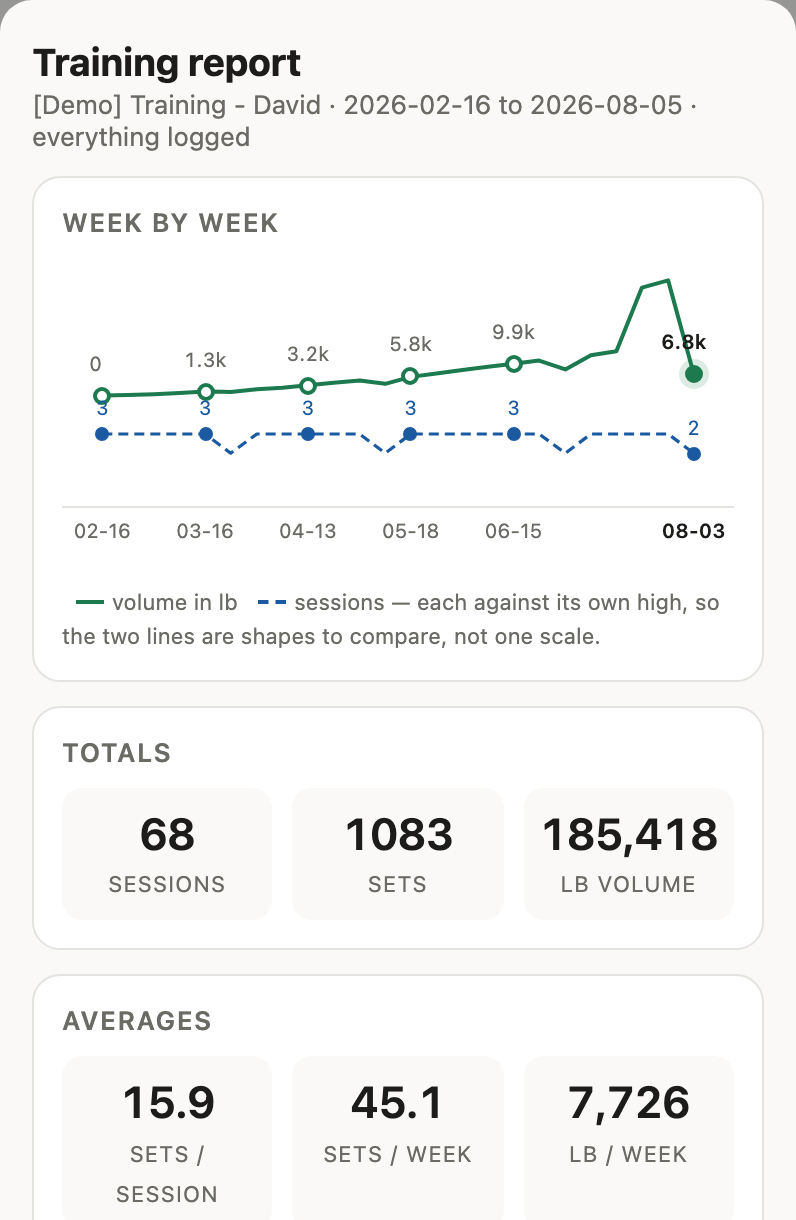
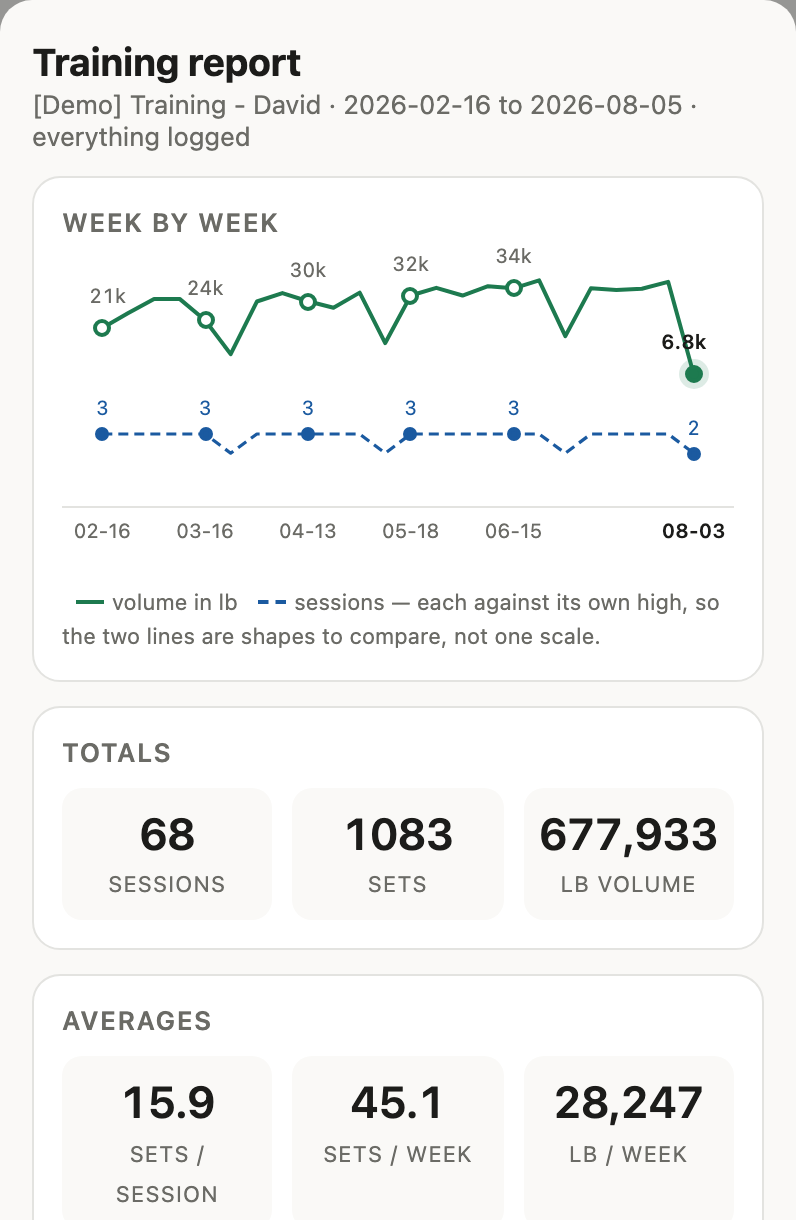
demo: history that looks like training, not like a first month
The seeder built each session through the app's own progression rule and let
it run for twenty-two weeks unattended. That rule adds two reps whenever a set
felt easy, which is right for a week at a time with someone overriding it, and
absurd over half a year: the demo ended up with 51-rep lateral raises and
36-rep split squats, all off a starting weight of zero, because templates ship
weights at 0.

It now does double progression — hold the weight, add reps across a block,
then take the weight up and reset the reps — with each lift's starting weight
picked so the last history session lands on the weight the showcase weeks
open with. Bench walks 8x70 to 8x95 and the showcase carries it to 8x105.
RPE climbs through each block and resets with the weight, so that column
tells the same story as the numbers.

The report images pick this up: the volume line now opens at 21k and climbs
to 34k with the lighter weeks visible as dips, instead of starting at zero.

diff --git a/docs/img/doc.html b/docs/img/doc.html
@@ -461,4 +461,4 @@
               border-radius:8px; font-size:14px; cursor:pointer; color:var(--ink); }
   .notesave.dirty { background:var(--ink); color:#fff; border-color:var(--ink); }
   .notestate { font-size:13px; color:var(--muted); }
-</style><body style="background:var(--bg)"><div class="repsheet" style="max-width:400px;margin:0"><div class="rep"><h2>Training report</h2><div class="sub">[Demo] Training - David · 2026-02-16 to 2031-08-15</div><div class="card"><h3>Month by month</h3><div class="chart"><svg viewBox="0 0 100 100" preserveAspectRatio="none" aria-hidden="true"><polyline class="ln" points="6.0,53.9 18.6,51.2 31.1,46.8 43.7,45.8 56.3,31.0 68.9,6.0 81.4,50.6 94.0,50.0" vector-effect="non-scaling-stroke"/><polyline class="ln2" points="6.0,83.7 18.6,70.0 31.1,73.4 43.7,80.3 56.3,70.0 68.9,73.4 81.4,90.6 94.0,92.3" vector-effect="non-scaling-stroke"/></svg><div class="pt lead mark" style="left:6.0%;bottom:46.1%" title="2026-02: 180 lb over 6 sessions"><span class="pv">180</span><i></i></div><div class="pt freq mark" style="left:6.0%;bottom:16.3%" title="6 sessions"><span class="pv">6</span><i></i></div><div class="pt" style="left:18.6%;bottom:48.8%" title="2026-03: 5,645 lb over 14 sessions"><i></i></div><div class="pt freq" style="left:18.6%;bottom:30.0%" title="14 sessions"><i></i></div><div class="pt mark" style="left:31.1%;bottom:53.2%" title="2026-04: 14,430 lb over 12 sessions"><span class="pv">14k</span><i></i></div><div class="pt freq mark" style="left:31.1%;bottom:26.6%" title="12 sessions"><span class="pv">12</span><i></i></div><div class="pt" style="left:43.7%;bottom:54.2%" title="2026-05: 16,355 lb over 8 sessions"><i></i></div><div class="pt freq" style="left:43.7%;bottom:19.7%" title="8 sessions"><i></i></div><div class="pt mark" style="left:56.3%;bottom:69.0%" title="2026-06: 46,010 lb over 14 sessions"><span class="pv">46k</span><i></i></div><div class="pt freq mark" style="left:56.3%;bottom:30.0%" title="14 sessions"><span class="pv">14</span><i></i></div><div class="pt mark" style="left:68.9%;bottom:94.0%" title="2026-07: 96,025 lb over 12 sessions"><span class="pv">96k</span><i></i></div><div class="pt freq mark" style="left:68.9%;bottom:26.6%" title="12 sessions"><span class="pv">12</span><i></i></div><div class="pt" style="left:81.4%;bottom:49.4%" title="2026-08: 6,773 lb over 2 sessions"><i></i></div><div class="pt freq" style="left:81.4%;bottom:9.4%" title="2 sessions"><i></i></div><div class="pt now tail mark" style="left:94.0%;bottom:50.0%" title="2031-08: 7,910 lb over 1 session"><span class="pv">7.9k</span><i></i></div><div class="pt freq mark" style="left:94.0%;bottom:7.7%" title="1 session"><span class="pv">1</span><i></i></div></div><div class="xaxis"><div class="xl" style="left:6.0%">Feb</div><div class="xl" style="left:31.1%">Apr</div><div class="xl" style="left:56.3%">Jun</div><div class="xl" style="left:68.9%">Jul</div><div class="xl now" style="left:94.0%">Aug</div></div><div class="legend"><span class="ky vol"></span>volume in lb <span class="ky ses"></span>sessions — each against its own high, so the two lines are shapes to compare, not one scale.</div></div><div class="sumgrid"><div class="card"><h3>Totals</h3><div class="tiles"><div class="tile"><b>69</b><span>sessions</span></div><div class="tile"><b>1099</b><span>sets</span></div><div class="tile"><b>193,328</b><span>lb volume</span></div></div><div class="allrow">All time · 69 sessions · 1099 sets · 193,328 lb · since 2026-02-16</div></div><div class="card"><h3>Averages</h3><div class="tiles"><div class="tile"><b>15.9</b><span>sets / session</span></div><div class="tile"><b>44.0</b><span>sets / week</span></div><div class="tile"><b>7,733</b><span>lb / week</span></div></div><div class="allrow">All time · 15.9 sets / session · 44.0 sets / week · 7,733 lb / week</div></div></div><div class="legend">Lightest – heaviest set of the period, with your all-time range under it where it is wider. ★ marks a period that holds your best ever. The pill is first session to last.</div><div class="daygrid"><div class="daycard"><div class="dayhead"><svg viewBox="0 0 24 24" fill="none" stroke="currentColor" stroke-width="1.8" stroke-linecap="round" stroke-linejoin="round" aria-hidden="true"><circle cx="7" cy="7" r="2"/><circle cx="17" cy="7" r="2"/><circle cx="7" cy="17" r="2"/><circle cx="17" cy="17" r="2"/></svg><b>Custom</b><span class="totals">1 session · 9 sets</span></div><div class="exrow"><span class="nm">Farmer Carry</span><span class="mv">40s × 50 – 40s × 50</span><span class="chip flat">—</span></div><div class="exrow"><span class="nm">Plank</span><span class="mv">45s – 45s</span><span class="chip flat">—</span></div><div class="exrow"><span class="nm">Push-Up</span><span class="mv">20 – 20</span><span class="chip flat">—</span></div></div><div class="daycard"><div class="dayhead"><svg viewBox="0 0 24 24" fill="none" stroke="currentColor" stroke-width="1.8" stroke-linecap="round" stroke-linejoin="round" aria-hidden="true"><path d="M7 4v6l-2 9M17 4v6l2 9M7 10h10"/></svg><b>Legs</b><span class="totals">20 sessions · 322 sets · 69,060 lb</span></div><div class="exrow"><span class="nm">Back Squat</span><span class="mv">6 – 6 × 145</span><span class="chip flat">▬ 0%</span></div><div class="exrow"><span class="nm">Leg Press</span><span class="mv">12 – 12 × 200</span><span class="chip flat">▬ 0%</span></div><div class="exrow"><span class="nm">Lying Leg Curl</span><span class="mv">12 – 12 × 55</span><span class="chip flat">▬ 0%</span></div><div class="exrow"><span class="nm">Romanian Deadlift</span><span class="mv">8 – 8 × 105</span><span class="chip flat">▬ 0%</span></div><div class="exrow"><span class="nm">Bulgarian Split Squat</span><span class="mv">10 – 36 × 10</span><span class="chip up">▲ +260%</span></div><div class="exrow"><span class="nm">Standing Calf Raise</span><span class="mv">15 × 90 – 15 × 95</span><span class="chip up">▲ +5.6%</span></div></div><div class="daycard"><div class="dayhead"><svg viewBox="0 0 24 24" fill="none" stroke="currentColor" stroke-width="1.8" stroke-linecap="round" stroke-linejoin="round" aria-hidden="true"><path d="M12 3v7M8 10h8M9 10l-2 8M15 10l2 8"/></svg><b>Pull</b><span class="totals">23 sessions · 368 sets · 53,648 lb</span></div><div class="exrow"><span class="nm">Barbell Row</span><span class="mv">8 – 8 × 90</span><span class="chip flat">▬ 0%</span></div><div class="exrow"><span class="nm">Face Pull</span><span class="mv">15 – 15 × 27.5</span><span class="chip flat">▬ 0%</span></div><div class="exrow"><span class="nm">Lat Pulldown</span><span class="mv">10 – 10 × 75</span><span class="chip flat">▬ 0%</span></div><div class="exrow"><span class="nm">Seated Cable Row</span><span class="mv">10 – 12 × 65</span><span class="chip up">▲ +20%</span></div><div class="exrow"><span class="nm">Dumbbell Bicep Curl</span><span class="mv">12 – 12 × 20</span><span class="chip flat">▬ 0%</span></div><div class="exrow"><span class="nm">Pull-Up</span><span class="mv">8 – 8</span><span class="chip flat">—</span></div></div><div class="daycard"><div class="dayhead"><svg viewBox="0 0 24 24" fill="none" stroke="currentColor" stroke-width="1.8" stroke-linecap="round" stroke-linejoin="round" aria-hidden="true"><path d="M3 12h2M19 12h2M6 9v6M18 9v6M6 12h12"/></svg><b>Push</b><span class="totals">25 sessions · 400 sets · 70,622 lb</span></div><div class="exrow"><span class="nm">Barbell Bench Press</span><span class="mv">8 – 11 × 107.5</span><span class="chip up">▲ +37.5%</span></div><div class="exrow"><span class="nm">Incline Dumbbell Press</span><span class="mv">10 – 12 × 35</span><span class="chip up">▲ +20%</span></div><div class="exrow"><span class="nm">Lateral Raise</span><span class="mv">15 – 51 × 20</span><span class="chip up">▲ +13.3%</span></div><div class="exrow"><span class="nm">Seated Dumbbell Shoulder Press</span><span class="mv">10 – 14 × 20</span><span class="chip up">▲ +40%</span></div><div class="exrow"><span class="nm">Triceps Rope Pushdown</span><span class="mv">12 – 14 × 30</span><span class="chip up">▲ +16.7%</span></div></div></div></div></div>
+</style><body style="background:var(--bg)"><div class="repsheet" style="max-width:400px;margin:0"><div class="rep"><h2>Training report</h2><div class="sub">[Demo] Training - David · 2026-02-16 to 2026-08-05</div><div class="card"><h3>Week by week</h3><div class="chart dense"><svg viewBox="0 0 100 100" preserveAspectRatio="none" aria-hidden="true"><polyline class="ln" points="6.0,25.8 9.8,19.7 13.7,13.7 17.5,13.7 21.3,22.6 25.1,36.7 29.0,14.8 32.8,11.3 36.6,14.7 40.4,17.4 44.3,11.1 48.1,32.1 51.9,12.3 55.7,9.1 59.6,12.3 63.4,8.4 67.2,9.3 71.0,6.0 74.9,29.2 78.7,9.3 82.5,10.0 86.3,9.5 90.2,6.6 94.0,45.1" vector-effect="non-scaling-stroke"/><polyline class="ln2" points="6.0,70.0 9.8,70.0 13.7,70.0 17.5,70.0 21.3,70.0 25.1,78.0 29.0,70.0 32.8,70.0 36.6,70.0 40.4,70.0 44.3,70.0 48.1,78.0 51.9,70.0 55.7,70.0 59.6,70.0 63.4,70.0 67.2,70.0 71.0,70.0 74.9,78.0 78.7,70.0 82.5,70.0 86.3,70.0 90.2,70.0 94.0,78.0" vector-effect="non-scaling-stroke"/></svg><div class="pt lead mark" style="left:6.0%;bottom:74.2%" title="2026-02-16: 21,365 lb over 3 sessions"><span class="pv">21k</span><i></i></div><div class="pt freq mark" style="left:6.0%;bottom:30.0%" title="3 sessions"><span class="pv">3</span><i></i></div><div class="pt" style="left:9.8%;bottom:80.3%" title="2026-02-23: 25,955 lb over 3 sessions"><i></i></div><div class="pt freq" style="left:9.8%;bottom:30.0%" title="3 sessions"><i></i></div><div class="pt" style="left:13.7%;bottom:86.3%" title="2026-03-02: 30,545 lb over 3 sessions"><i></i></div><div class="pt freq" style="left:13.7%;bottom:30.0%" title="3 sessions"><i></i></div><div class="pt" style="left:17.5%;bottom:86.3%" title="2026-03-09: 30,545 lb over 3 sessions"><i></i></div><div class="pt freq" style="left:17.5%;bottom:30.0%" title="3 sessions"><i></i></div><div class="pt mark" style="left:21.3%;bottom:77.4%" title="2026-03-16: 23,770 lb over 3 sessions"><span class="pv">24k</span><i></i></div><div class="pt freq mark" style="left:21.3%;bottom:30.0%" title="3 sessions"><span class="pv">3</span><i></i></div><div class="pt" style="left:25.1%;bottom:63.3%" title="2026-03-23: 13,130 lb over 2 sessions"><i></i></div><div class="pt freq" style="left:25.1%;bottom:22.0%" title="2 sessions"><i></i></div><div class="pt" style="left:29.0%;bottom:85.2%" title="2026-03-30: 29,645 lb over 3 sessions"><i></i></div><div class="pt freq" style="left:29.0%;bottom:30.0%" title="3 sessions"><i></i></div><div class="pt" style="left:32.8%;bottom:88.7%" title="2026-04-06: 32,305 lb over 3 sessions"><i></i></div><div class="pt freq" style="left:32.8%;bottom:30.0%" title="3 sessions"><i></i></div><div class="pt mark" style="left:36.6%;bottom:85.3%" title="2026-04-13: 29,785 lb over 3 sessions"><span class="pv">30k</span><i></i></div><div class="pt freq mark" style="left:36.6%;bottom:30.0%" title="3 sessions"><span class="pv">3</span><i></i></div><div class="pt" style="left:40.4%;bottom:82.6%" title="2026-04-20: 27,690 lb over 3 sessions"><i></i></div><div class="pt freq" style="left:40.4%;bottom:30.0%" title="3 sessions"><i></i></div><div class="pt" style="left:44.3%;bottom:88.9%" title="2026-04-27: 32,475 lb over 3 sessions"><i></i></div><div class="pt freq" style="left:44.3%;bottom:30.0%" title="3 sessions"><i></i></div><div class="pt" style="left:48.1%;bottom:67.9%" title="2026-05-11: 16,575 lb over 2 sessions"><i></i></div><div class="pt freq" style="left:48.1%;bottom:22.0%" title="2 sessions"><i></i></div><div class="pt mark" style="left:51.9%;bottom:87.7%" title="2026-05-18: 31,535 lb over 3 sessions"><span class="pv">32k</span><i></i></div><div class="pt freq mark" style="left:51.9%;bottom:30.0%" title="3 sessions"><span class="pv">3</span><i></i></div><div class="pt" style="left:55.7%;bottom:90.9%" title="2026-05-25: 34,000 lb over 3 sessions"><i></i></div><div class="pt freq" style="left:55.7%;bottom:30.0%" title="3 sessions"><i></i></div><div class="pt" style="left:59.6%;bottom:87.7%" title="2026-06-01: 31,575 lb over 3 sessions"><i></i></div><div class="pt freq" style="left:59.6%;bottom:30.0%" title="3 sessions"><i></i></div><div class="pt" style="left:63.4%;bottom:91.6%" title="2026-06-08: 34,555 lb over 3 sessions"><i></i></div><div class="pt freq" style="left:63.4%;bottom:30.0%" title="3 sessions"><i></i></div><div class="pt mark" style="left:67.2%;bottom:90.7%" title="2026-06-15: 33,855 lb over 3 sessions"><span class="pv">34k</span><i></i></div><div class="pt freq mark" style="left:67.2%;bottom:30.0%" title="3 sessions"><span class="pv">3</span><i></i></div><div class="pt" style="left:71.0%;bottom:94.0%" title="2026-06-22: 36,340 lb over 3 sessions"><i></i></div><div class="pt freq" style="left:71.0%;bottom:30.0%" title="3 sessions"><i></i></div><div class="pt" style="left:74.9%;bottom:70.8%" title="2026-06-29: 18,780 lb over 2 sessions"><i></i></div><div class="pt freq" style="left:74.9%;bottom:22.0%" title="2 sessions"><i></i></div><div class="pt" style="left:78.7%;bottom:90.7%" title="2026-07-06: 33,840 lb over 3 sessions"><i></i></div><div class="pt freq" style="left:78.7%;bottom:30.0%" title="3 sessions"><i></i></div><div class="pt" style="left:82.5%;bottom:90.0%" title="2026-07-13: 33,275 lb over 3 sessions"><i></i></div><div class="pt freq" style="left:82.5%;bottom:30.0%" title="3 sessions"><i></i></div><div class="pt" style="left:86.3%;bottom:90.5%" title="2026-07-20: 33,705 lb over 3 sessions"><i></i></div><div class="pt freq" style="left:86.3%;bottom:30.0%" title="3 sessions"><i></i></div><div class="pt" style="left:90.2%;bottom:93.4%" title="2026-07-27: 35,915 lb over 3 sessions"><i></i></div><div class="pt freq" style="left:90.2%;bottom:30.0%" title="3 sessions"><i></i></div><div class="pt now tail mark" style="left:94.0%;bottom:54.9%" title="2026-08-03: 6,773 lb over 2 sessions"><span class="pv">6.8k</span><i></i></div><div class="pt freq mark" style="left:94.0%;bottom:22.0%" title="2 sessions"><span class="pv">2</span><i></i></div></div><div class="xaxis"><div class="xl" style="left:6.0%">02-16</div><div class="xl" style="left:21.3%">03-16</div><div class="xl" style="left:36.6%">04-13</div><div class="xl" style="left:51.9%">05-18</div><div class="xl" style="left:67.2%">06-15</div><div class="xl now" style="left:94.0%">08-03</div></div><div class="legend"><span class="ky vol"></span>volume in lb <span class="ky ses"></span>sessions — each against its own high, so the two lines are shapes to compare, not one scale.</div></div><div class="sumgrid"><div class="card"><h3>Totals</h3><div class="tiles"><div class="tile"><b>68</b><span>sessions</span></div><div class="tile"><b>1083</b><span>sets</span></div><div class="tile"><b>677,933</b><span>lb volume</span></div></div><div class="allrow">All time · 68 sessions · 1083 sets · 677,933 lb · since 2026-02-16</div></div><div class="card"><h3>Averages</h3><div class="tiles"><div class="tile"><b>15.9</b><span>sets / session</span></div><div class="tile"><b>45.1</b><span>sets / week</span></div><div class="tile"><b>28,247</b><span>lb / week</span></div></div><div class="allrow">All time · 15.9 sets / session · 45.1 sets / week · 28,247 lb / week</div></div></div><div class="legend">Lightest – heaviest set of the period, with your all-time range under it where it is wider. ★ marks a period that holds your best ever. The pill is first session to last.</div><div class="daygrid"><div class="daycard"><div class="dayhead"><svg viewBox="0 0 24 24" fill="none" stroke="currentColor" stroke-width="1.8" stroke-linecap="round" stroke-linejoin="round" aria-hidden="true"><circle cx="7" cy="7" r="2"/><circle cx="17" cy="7" r="2"/><circle cx="7" cy="17" r="2"/><circle cx="17" cy="17" r="2"/></svg><b>Custom</b><span class="totals">1 session · 9 sets</span></div><div class="exrow"><span class="nm">Farmer Carry</span><span class="mv">40s × 50 – 40s × 50</span><span class="chip flat">—</span></div><div class="exrow"><span class="nm">Plank</span><span class="mv">45s – 45s</span><span class="chip flat">—</span></div><div class="exrow"><span class="nm">Push-Up</span><span class="mv">20 – 20</span><span class="chip flat">—</span></div></div><div class="daycard"><div class="dayhead"><svg viewBox="0 0 24 24" fill="none" stroke="currentColor" stroke-width="1.8" stroke-linecap="round" stroke-linejoin="round" aria-hidden="true"><path d="M7 4v6l-2 9M17 4v6l2 9M7 10h10"/></svg><b>Legs</b><span class="totals">20 sessions · 322 sets · 329,140 lb</span></div><div class="exrow"><span class="nm">Back Squat</span><span class="mv">6 × 110 – 6 × 145</span><span class="chip up">▲ +31.8%</span></div><div class="exrow"><span class="nm">Leg Press</span><span class="mv">12 × 155 – 12 × 200</span><span class="chip up">▲ +29%</span></div><div class="exrow"><span class="nm">Lying Leg Curl</span><span class="mv">12 × 25 – 12 × 55</span><span class="chip up">▲ +120%</span></div><div class="exrow"><span class="nm">Romanian Deadlift</span><span class="mv">8 × 70 – 8 × 105</span><span class="chip up">▲ +50%</span></div><div class="exrow"><span class="nm">Bulgarian Split Squat</span><span class="mv">10 × 25 – 14 × 35</span><span class="chip up">▲ +40%</span></div><div class="exrow"><span class="nm">Standing Calf Raise</span><span class="mv">15 × 90 – 15 × 95</span><span class="chip up">▲ +5.6%</span></div></div><div class="daycard"><div class="dayhead"><svg viewBox="0 0 24 24" fill="none" stroke="currentColor" stroke-width="1.8" stroke-linecap="round" stroke-linejoin="round" aria-hidden="true"><path d="M12 3v7M8 10h8M9 10l-2 8M15 10l2 8"/></svg><b>Pull</b><span class="totals">23 sessions · 368 sets · 201,607 lb</span></div><div class="exrow"><span class="nm">Barbell Row</span><span class="mv">8 × 60 – 8 × 90</span><span class="chip up">▲ +50%</span></div><div class="exrow"><span class="nm">Face Pull</span><span class="mv">15 × 20 – 15 × 27.5</span><span class="chip up">▲ +37.5%</span></div><div class="exrow"><span class="nm">Lat Pulldown</span><span class="mv">10 × 45 – 10 × 75</span><span class="chip up">▲ +66.7%</span></div><div class="exrow"><span class="nm">Seated Cable Row</span><span class="mv">10 × 40 – 12 × 65</span><span class="chip up">▲ +62.5%</span></div><div class="exrow"><span class="nm">Dumbbell Bicep Curl</span><span class="mv">12 × 12.5 – 16 × 20</span><span class="chip up">▲ +60%</span></div><div class="exrow"><span class="nm">Pull-Up</span><span class="mv">8 – 8</span><span class="chip flat">—</span></div></div><div class="daycard"><div class="dayhead"><svg viewBox="0 0 24 24" fill="none" stroke="currentColor" stroke-width="1.8" stroke-linecap="round" stroke-linejoin="round" aria-hidden="true"><path d="M3 12h2M19 12h2M6 9v6M18 9v6M6 12h12"/></svg><b>Push</b><span class="totals">24 sessions · 384 sets · 147,195 lb</span></div><div class="exrow"><span class="nm">Barbell Bench Press</span><span class="mv">8 × 70 – 8 × 105</span><span class="chip up">▲ +50%</span></div><div class="exrow"><span class="nm">Incline Dumbbell Press</span><span class="mv">10 × 17.5 – 10 × 35</span><span class="chip up">▲ +100%</span></div><div class="exrow"><span class="nm">Lateral Raise</span><span class="mv">15 × 5 – 15 × 12.5</span><span class="chip up">▲ +150%</span></div><div class="exrow"><span class="nm">Seated Dumbbell Shoulder Press</span><span class="mv">10 × 12.5 – 14 × 20</span><span class="chip up">▲ +60%</span></div><div class="exrow"><span class="nm">Triceps Rope Pushdown</span><span class="mv">12 × 17.5 – 12 × 30</span><span class="chip up">▲ +71.4%</span></div></div></div></div></div>

diff --git a/scripts/seed-history.js b/scripts/seed-history.js
@@ -9,14 +9,59 @@ const { chromium } = require('@playwright/test');
 const { targets, open } = require('../e2e/app.js');
 
 const DAYS = ['Push', 'Pull', 'Legs'];
-const START = process.env.START || '2025-11-03';   // a Monday
-const UNTIL = process.env.UNTIL || '2026-07-17';   // before the log's own data
+const START = process.env.START || '2026-02-16';   // a Monday
+const UNTIL = process.env.UNTIL || '2026-07-17';   // before the showcase weeks
+
+// Where each lift starts and how it climbs, chosen so the last history
+// session lands on the weight the showcase weeks open with — a log that reads
+// as someone mid-training rather than someone's first month.
+//
+// Double progression: hold the weight and add reps, then take the weight up
+// and drop back to the base. The app's own rule approximates this a week at a
+// time, but it was never meant to run unattended for twenty-two of them —
+// doing that produced 51-rep lateral raises off a starting weight of zero.
+//
+// `every` is how many sessions a weight block lasts.
+const LIFTS = {
+  'Barbell Bench Press':            { from: 70,   step: 5,   every: 4, reps: 8 },
+  'Incline Dumbbell Press':         { from: 17.5, step: 2.5, every: 4, reps: 10 },
+  'Seated Dumbbell Shoulder Press': { from: 12.5, step: 2.5, every: 6, reps: 10 },
+  'Lateral Raise':                  { from: 5,    step: 2.5, every: 8, reps: 15 },
+  'Triceps Rope Pushdown':          { from: 17.5, step: 2.5, every: 6, reps: 12 },
+  'Cable Chest Fly':                { from: 25,   step: 5,   every: 6, reps: 12 },
+  'Barbell Row':                    { from: 60,   step: 5,   every: 4, reps: 8 },
+  'Lat Pulldown':                   { from: 45,   step: 5,   every: 4, reps: 10 },
+  'Seated Cable Row':               { from: 40,   step: 5,   every: 4, reps: 10 },
+  'Face Pull':                      { from: 20,   step: 2.5, every: 8, reps: 15 },
+  'Dumbbell Bicep Curl':            { from: 12.5, step: 2.5, every: 6, reps: 12 },
+  'Hammer Curl':                    { from: 12.5, step: 2.5, every: 6, reps: 12 },
+  'Back Squat':                     { from: 110,  step: 5,   every: 4, reps: 6 },
+  'Romanian Deadlift':              { from: 70,   step: 5,   every: 4, reps: 8 },
+  'Leg Press':                      { from: 155,  step: 5,   every: 4, reps: 12 },
+  'Bulgarian Split Squat':          { from: 25,   step: 5,   every: 6, reps: 10 },
+  'Lying Leg Curl':                 { from: 25,   step: 5,   every: 4, reps: 12 },
+  'Standing Calf Raise':            { from: 65,   step: 5,   every: 4, reps: 15 }
+};
+
+// The nth session of a day type, for one lift.
+function planned(name, nth) {
+  const lift = LIFTS[name];
+  if (!lift) return null;
+  const block = Math.floor(nth / lift.every);
+  const into = nth % lift.every;
+  return {
+    weight: lift.from + block * lift.step,
+    reps: lift.reps + 2 * Math.min(into, 2),   // climb, then reset on the bump
+    rpe: Math.min(9.5, 7 + into * 0.5)         // and it feels harder each week
+  };
+}
 
 function plan() {
   const out = [];
   const d = new Date(START + 'T12:00:00Z');
   const end = new Date(UNTIL + 'T12:00:00Z');
   let week = 0;
+  const nth = { Push: 0, Pull: 0, Legs: 0 };
   while (d <= end) {
     // Mon/Wed/Fri, with the occasional lighter week — a flat three every week
     // makes the sessions line a straight line, which is not what training is.
@@ -26,20 +71,14 @@ function plan() {
     offsets.forEach(function (off, i) {
       const day = new Date(d.getTime() + off * 86400000);
       if (day > end) return;
-      out.push({ date: day.toISOString().slice(0, 10),
-                 day: DAYS[(week * 3 + i) % DAYS.length] });
+      const type = DAYS[(week * 3 + i) % DAYS.length];
+      out.push({ date: day.toISOString().slice(0, 10), day: type,
+                 nth: nth[type]++ });
     });
     d.setDate(d.getDate() + 7);
     week++;
   }
   return out;
-}
-
-// Mostly 7-8 (keep the weight, add reps), sometimes 9 (repeat), rarely 6 (a
-// jump) or 10 (back off). Deterministic, so a re-run is the same log.
-function rpeFor(n) {
-  const r = [8, 7, 8, 9, 8, 6, 8, 7, 9, 8, 8, 10, 7, 8][n % 14];
-  return r;
 }
 
 (async () => {
@@ -65,10 +104,16 @@ function rpeFor(n) {
       google.script.run.withSuccessHandler(ok).withFailureHandler(e => bad(e.message))
         .loadSession(day, date, true, KEY, 'auto')), [s.day, s.date]);
 
-    const items = (res.sets || []).map((set, i) => ({
-      row: set.row, day: s.day, date: s.date, exercise: set.exercise,
-      set: set.set, reps: set.reps, weight: set.weight, rpe: rpeFor(n + i)
-    }));
+    const items = (res.sets || []).map((set) => {
+      const want = planned(set.exercise, s.nth);
+      return {
+        row: set.row, day: s.day, date: s.date, exercise: set.exercise,
+        set: set.set,
+        reps: want ? want.reps : set.reps,
+        weight: want ? want.weight : set.weight,
+        rpe: want ? want.rpe : 8
+      };
+    });
     if (!items.length) { failed++; continue; }
 
     const out = await app.evaluate(items => new Promise((ok, bad) =>
@@ -77,7 +122,6 @@ function rpeFor(n) {
 
     written += out.filter(o => o.ok).length;
     failed += out.filter(o => !o.ok).length;
-    n += items.length;
     if (++n % 10 === 0 || s === sessions[sessions.length - 1]) {
       console.log(s.date + '  ' + s.day + '  rows ' + written +
                   (failed ? '  failed ' + failed : ''));
